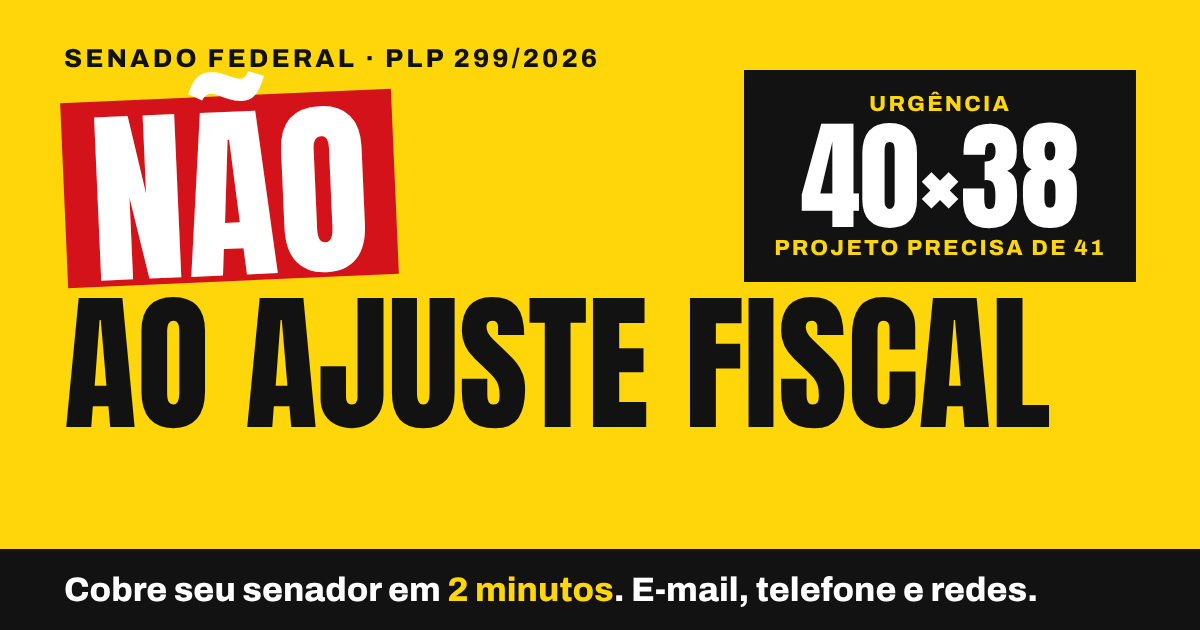
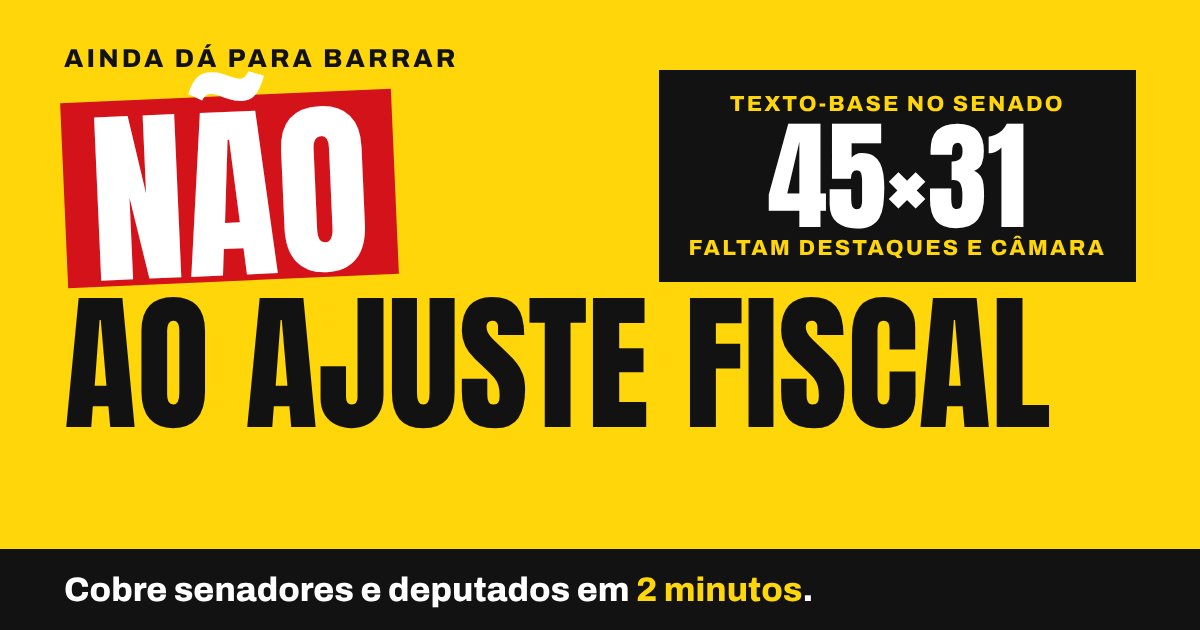
Atualiza o site após a aprovação do texto-base no Senado (45 a 31)
Placar, faixa, capa, pontos do projeto e mensagens-modelo passam a refletir
o substitutivo aprovado em 12/11, os destaques de terça (17) e a etapa da
Câmara. O build passa a classificar as votações (urgência, texto-base,
destaque) para o placar não ser trocado por votações de destaque.

Claude-Session: https://claude.ai/code/session_017r4UbBwt3XhGUBzSYtppMv

Changed region(s): [[0.5242, 0.0905, 0.925, 0.4524], [0.185, 0.9048, 0.8633, 0.9651], [0.0617, 0.0603, 0.4933, 0.1206]]

diff --git a/site/index.html b/site/index.html
@@ -3,13 +3,13 @@
 <head>
 <meta charset="utf-8">
 <meta name="viewport" content="width=device-width, initial-scale=1">
-<title>Não ao Ajuste Fiscal — cobre seu senador agora</title>
-<meta name="description" content="O Senado quer votar às pressas o PLP 299/2026, um ajuste fiscal de até R$ 60 bilhões. Em 2 minutos você cobra os senadores por e-mail, telefone e redes sociais.">
+<title>Não ao Ajuste Fiscal — cobre senadores e deputados agora</title>
+<meta name="description" content="O Senado aprovou por 45 a 31 o texto-base do PLP 299/2026, um ajuste fiscal de até R$ 60 bilhões. Ainda faltam os destaques e a Câmara. Em 2 minutos você cobra senadores e deputados.">
 <meta name="theme-color" content="#FFD60A">
 <meta property="og:type" content="website">
 <meta property="og:locale" content="pt_BR">
-<meta property="og:title" content="NÃO AO AJUSTE FISCAL — cobre seu senador agora">
-<meta property="og:description" content="A urgência passou por 40 a 38. O projeto precisa de 41 votos. Em 2 minutos você cobra quem vai votar.">
+<meta property="og:title" content="NÃO AO AJUSTE FISCAL — ainda dá para barrar">
+<meta property="og:description" content="O Senado aprovou o texto-base por 45 a 31. Faltam os destaques (terça, 17) e a Câmara. Em 2 minutos você cobra quem vai votar.">
 <meta property="og:url" content="__SITE_URL__/">
 <meta property="og:image" content="__SITE_URL__/og.png">
 <meta property="og:image:width" content="1200">
@@ -25,30 +25,30 @@
 <div class="faixa" role="status">
   <div class="wrap faixa-in">
     <span class="pisca" aria-hidden="true"></span>
-    <span id="faixa-texto"><b>PLP 299/2026</b> está no Plenário do Senado em regime de urgência. A votação pode acontecer a qualquer momento.</span>
+    <span id="faixa-texto"><b>Senado aprovou o texto-base por 45 a 31.</b> Faltam quatro destaques, na terça (17). Depois o projeto vai à Câmara.</span>
   </div>
 </div>
 
 <header class="hero">
   <div class="wrap hero-in">
     <div class="hero-txt">
-      <p class="olho">Senado Federal · PLP 299/2026</p>
+      <p class="olho">PLP 299/2026 · ainda dá para barrar</p>
       <h1><span class="nao">Não</span> ao ajuste fiscal</h1>
-      <p class="lide">Um pacote de até <b>R$ 60 bilhões</b> foi apresentado numa quarta e pautado para votação no dia seguinte. Ele aperta o limite de gastos, amplia os cortes no orçamento e mexe na base de cálculo do piso da saúde. <b>Cobre quem vai votar.</b></p>
+      <p class="lide">Em pouco mais de um dia, sem passar por comissão, o Senado aprovou o texto-base de um pacote de até <b>R$ 60 bilhões</b>. Ele aperta o limite de gastos, amplia o bloqueio de verbas e mexe na base de cálculo do piso da saúde. Faltam os destaques no Senado e toda a votação na Câmara. <b>Cobre quem ainda vai votar.</b></p>
       <div class="hero-cta">
-        <a class="btn btn-preto btn-g" href="#cobrar">Cobrar os senadores</a>
+        <a class="btn btn-preto btn-g" href="#cobrar">Cobrar senadores e deputados</a>
         <a class="btn btn-zap btn-g" data-share="whatsapp" href="#espalhe">Enviar no WhatsApp</a>
       </div>
     </div>
 
-    <aside class="placar" aria-label="Placar da votação da urgência">
-      <p class="placar-tit" id="placar-tit">Votação da urgência · 12/11/2026</p>
+    <aside class="placar" aria-label="Placar da votação no Senado">
+      <p class="placar-tit" id="placar-tit">Votação do texto-base · 12/11/2026</p>
       <div class="placar-num">
-        <div><strong id="placar-sim">40</strong><span>Sim</span></div>
+        <div><strong id="placar-sim">45</strong><span>Sim</span></div>
         <i aria-hidden="true">×</i>
-        <div><strong id="placar-nao">38</strong><span>Não</span></div>
+        <div><strong id="placar-nao">31</strong><span>Não</span></div>
       </div>
-      <p class="placar-obs">Para aprovar o projeto são necessários <b>41 votos</b> (maioria absoluta). A urgência teve 40. <b>Cada voto decide.</b></p>
+      <p class="placar-obs">Não acabou. <b>Terça (17):</b> o Senado vota quatro destaques, que podem tirar trechos do texto. <b>Depois:</b> a Câmara, onde são necessários 257 votos.</p>
     </aside>
   </div>
 </header>
@@ -58,17 +58,17 @@
 <section class="jogo" id="o-que-esta-em-jogo">
   <div class="wrap">
     <h2>O que o projeto faz</h2>
-    <p class="sub">Direto do texto protocolado no Senado em 11/11/2026 pelo senador Jaques Wagner (PT-BA), com relatoria de Eduardo Braga (MDB-AM).</p>
+    <p class="sub">Direto do substitutivo do relator Eduardo Braga (MDB-AM) ao projeto de Jaques Wagner (PT-BA), aprovado como texto-base em 12/11/2026.</p>
     <ul class="pontos">
       <li>
-        <span class="ref">Art. 1º</span>
+        <span class="ref">Art. 1º · LC 200, art. 5º</span>
         <h3>Limite de gastos ainda menor</h3>
-        <p>A partir de 2027, em ano de contingenciamento, o crescimento real das despesas cai de 2,5% para <b>2%</b>. É o arcabouço fiscal mais apertado do que já é.</p>
+        <p>A partir de 2027, em ano de contenção, o crescimento real das despesas cai de 2,5% para <b>2%</b>. É o arcabouço fiscal mais apertado do que já é.</p>
       </li>
       <li>
-        <span class="ref">Arts. 6º-C e 6º-D</span>
-        <h3>Corte mesmo com a meta cumprida</h3>
-        <p>O governo passa a poder bloquear verbas mesmo quando o resultado já está dentro da meta, e a <b>reduzir ou cancelar qualquer despesa</b> que dependa de disponibilidade orçamentária.</p>
+        <span class="ref">Art. 1º · LC 200, arts. 6º-C e 6º-D</span>
+        <h3>Bloqueio mesmo com a meta cumprida</h3>
+        <p>O governo passa a poder bloquear verbas mesmo quando o resultado já está dentro da meta, mirando o centro e não mais o piso. O bloqueio pode alcançar <b>qualquer despesa do Executivo</b> que dependa de disponibilidade orçamentária.</p>
       </li>
       <li>
         <span class="ref">Art. 3º</span>
@@ -76,19 +76,19 @@
         <p>Até 2030, a receita do imposto de exportação de petróleo sai da conta que define despesas mínimas obrigatórias. O percentual do piso fica igual, mas incide sobre uma <b>base menor</b>.</p>
       </li>
       <li>
-        <span class="ref">Art. 6º</span>
-        <h3>Previdência, BPC e abono na mira</h3>
-        <p>Exige um plano para que as despesas com previdência, assistência social, abono salarial e servidores passem a crescer <b>no ritmo do teto</b> do arcabouço.</p>
-      </li>
-      <li>
-        <span class="ref">Art. 11</span>
-        <h3>Até 40% dos fundos desvinculados</h3>
-        <p>Autoriza retirar até 40% do superávit de fundos com destinação específica. Saúde, educação, seguridade e segurança ficam fora dessa regra.</p>
+        <span class="ref">Art. 2º</span>
+        <h3>Repasse a estados e municípios adiado</h3>
+        <p>De 2027 a 2030, uma transferência obrigatória da União a estados e municípios fica limitada a <b>R$ 1 bilhão por ano</b>. A diferença só é paga depois, em parcelas até 2037.</p>
       </li>
       <li>
         <span class="ref">Rito</span>
-        <h3>Votado a toque de caixa</h3>
-        <p>Protocolado em 11/11 e levado direto ao Plenário, sem passar por comissão. Senadores pediram mais tempo: o texto é técnico e houve quem dissesse que não queria “votar às cegas”.</p>
+        <h3>Aprovado em pouco mais de um dia</h3>
+        <p>Protocolado em 11/11, aprovado em 12/11, direto no Plenário e sem comissão. A urgência passou por 40 a 38; senadores disseram que não queriam “votar às cegas”.</p>
+      </li>
+      <li>
+        <span class="ref">Fora do texto</span>
+        <h3>Dois pontos já caíram</h3>
+        <p>O texto aprovado <b>não tem mais</b> o plano para conter previdência, assistência social e abono, nem a desvinculação de 40% dos fundos, que estavam no projeto original. E cancelar verbas passou a exigir lei.</p>
       </li>
     </ul>
     <p class="nota">O projeto também dobra, de 10% para 20%, o corte de benefícios tributários de empresas. Essa parte não precisa vir amarrada a cortes em gasto social: pode ser votada em separado.</p>
@@ -98,11 +98,11 @@
 <section class="cobrar" id="cobrar">
   <div class="wrap">
     <h2>Cobre agora</h2>
-    <p class="sub">Escolha quem cobrar, ajuste a mensagem e envie pelo seu próprio e-mail. Leva dois minutos.</p>
+    <p class="sub">Senadores votam os destaques na terça (17). Deputados votam em seguida. Escolha quem cobrar, ajuste a mensagem e envie pelo seu próprio e-mail. Leva dois minutos.</p>
 
     <div class="abas" role="tablist" aria-label="Quem cobrar">
-      <button role="tab" id="aba-senado" aria-selected="true" aria-controls="painel-lista" data-casa="senado">Senado <small>vota primeiro</small></button>
-      <button role="tab" id="aba-camara" aria-selected="false" aria-controls="painel-lista" data-casa="camara">Câmara <small>próxima etapa</small></button>
+      <button role="tab" id="aba-senado" aria-selected="true" aria-controls="painel-lista" data-casa="senado">Senado <small>destaques na terça</small></button>
+      <button role="tab" id="aba-camara" aria-selected="false" aria-controls="painel-lista" data-casa="camara">Câmara <small>próxima votação</small></button>
       <button role="tab" id="aba-executivo" aria-selected="false" aria-controls="painel-executivo" data-casa="executivo">Executivo <small>autor do pacote</small></button>
     </div>
 
@@ -169,7 +169,7 @@
     </div>
 
     <div id="painel-executivo" role="tabpanel" hidden>
-      <p class="contexto">O projeto foi desenhado pela equipe econômica e apresentado pelo líder do governo. O Executivo pode retirar o pedido de urgência, mudar o texto ou desistir dos cortes. A cobrança formal ao governo federal é feita pelo <b>Fala.BR</b>, a ouvidoria oficial: toda manifestação gera protocolo e tem prazo de resposta.</p>
+      <p class="contexto">O projeto foi desenhado pela equipe econômica e apresentado pelo líder do governo. O Executivo pode retirar o apoio ao projeto antes da votação na Câmara, mudar o texto ou desistir dos cortes. A cobrança formal ao governo federal é feita pelo <b>Fala.BR</b>, a ouvidoria oficial: toda manifestação gera protocolo e tem prazo de resposta.</p>
       <ul class="exec" id="exec"></ul>
       <label class="campo"><span>Mensagem ao Executivo <em>— copie e cole no Fala.BR</em></span>
         <textarea id="x-corpo" rows="11"></textarea>
@@ -247,6 +247,8 @@
     <ul>
       <li><a href="https://www25.senado.leg.br/web/atividade/materias/-/materia/176328" target="_blank" rel="noopener">PLP 299/2026 — texto e tramitação no Senado</a></li>
       <li><a href="https://www12.senado.leg.br/noticias/materias/2026/11/11/ajuste-fiscal-pode-ser-votado-nesta-quinta-feira" target="_blank" rel="noopener">Agência Senado: “Ajuste fiscal pode ser votado nesta quinta-feira”</a></li>
+      <li><a href="https://www.infomoney.com.br/politica/senado-aprova-texto-base-do-ajuste-fiscal-do-governo-lula-por-45-votos-a-31/" target="_blank" rel="noopener">InfoMoney: Senado aprova texto-base por 45 votos a 31</a></li>
+      <li><a href="https://www.cnnbrasil.com.br/politica/senado-aprova-plp-do-ajuste-fiscal/" target="_blank" rel="noopener">CNN Brasil: texto-base aprovado com limite a cortes do Executivo</a></li>
       <li><a href="https://www.metropoles.com/brasil/senado-aprova-urgencia-e-deve-votar-ajuste-fiscal-de-lula-ainda-nesta-5a" target="_blank" rel="noopener">Metrópoles: Senado aprova urgência por 40 a 38</a></li>
       <li><a href="https://outraspalavras.net/crise-brasileira/o-pacote-que-pode-comprometer-lula-4/" target="_blank" rel="noopener">Outras Palavras: “O pacote que pode comprometer Lula 4”</a></li>
       <li><a href="https://www.diariodepernambuco.com.br/economia/2026/11/11728882-governo-pode-mudar-calculo-dos-pisos-da-saude-e-educacao-em-pacote-fiscal-de-ate-rs-80-bi.html" target="_blank" rel="noopener">Diario de Pernambuco: mudança no cálculo dos pisos da saúde e da educação</a></li>

diff --git a/site/app.js b/site/app.js
@@ -11,11 +11,11 @@
     senado: {
       um: 'senador', uma: 'senadora', plural: 'senadores', coletivo: 'Senhoras Senadoras e Senhores Senadores',
       foto: (p) => `https://www.senado.leg.br/senadores/img/fotos-oficiais/senador${p.id}.jpg`,
-      contexto: 'O projeto está no Plenário do Senado em regime de urgência. É aqui que a pressão decide: são necessários 41 votos para aprovar. A etiqueta ao lado de cada nome mostra o voto na urgência.',
-      assunto: 'Vote NÃO ao PLP 299/2026 — o ajuste fiscal não pode passar',
+      contexto: 'O texto-base passou por 45 a 31, mas a votação não acabou: na terça-feira (17) o Plenário vota quatro destaques, que ainda podem tirar trechos do projeto. A etiqueta ao lado de cada nome mostra o voto no texto-base.',
+      assunto: 'PLP 299/2026: na terça, vote para derrubar os cortes do ajuste fiscal',
       corpo: [
-        'Escrevo para pedir que V. Exa. vote NÃO ao PLP 299/2026, o projeto de ajuste fiscal em análise no Plenário do Senado.',
-        'O texto foi protocolado em 11/11 e levado a voto em regime de urgência, sem passar por nenhuma comissão. Ele reduz de 2,5% para 2% o limite de crescimento real das despesas, autoriza contingenciar mesmo quando a meta fiscal já está sendo cumprida, retira receitas do petróleo da base que define despesas mínimas como o piso da saúde e exige um plano para conter previdência, assistência social e abono salarial.',
+        'O Senado aprovou em 12/11, por 45 a 31, o texto-base do PLP 299/2026, o projeto de ajuste fiscal. Na terça-feira (17) o Plenário vota os destaques, e escrevo para pedir que V. Exa. vote para retirar os cortes do texto.',
+        'O projeto foi protocolado, levado a voto em urgência e aprovado em pouco mais de um dia, sem passar por nenhuma comissão. Ele reduz de 2,5% para 2% o limite de crescimento real das despesas, autoriza bloquear verbas mesmo quando a meta fiscal já está sendo cumprida, retira receitas do petróleo da base que define despesas mínimas como o piso da saúde e segura até 2030 repasses devidos a estados e municípios.',
         'Não foi para cortar gasto social que o povo foi às urnas. Se é preciso equilibrar as contas, que se cobre de quem tem mais: grandes fortunas, benefícios tributários e emendas parlamentares.',
         'Vou acompanhar e divulgar o seu voto.',
       ].join('\n\n'),
@@ -23,11 +23,11 @@
     camara: {
       um: 'deputado', uma: 'deputada', plural: 'deputados', coletivo: 'Senhoras Deputadas e Senhores Deputados',
       foto: (p) => `https://www.camara.leg.br/internet/deputado/bandep/${p.id}.jpg`,
-      contexto: 'Se passar no Senado, o projeto segue para a Câmara dos Deputados, onde precisa de 257 votos. Avise desde já os deputados do seu estado de que você está acompanhando.',
-      assunto: 'Não ao ajuste fiscal — vote NÃO ao PLP 299/2026 quando chegar à Câmara',
+      contexto: 'É aqui que o ajuste pode ser barrado. Depois dos destaques no Senado, o projeto segue para a Câmara dos Deputados, onde precisa de 257 votos. Cobre desde já os deputados do seu estado.',
+      assunto: 'Vote NÃO ao PLP 299/2026 — o ajuste fiscal não pode passar na Câmara',
       corpo: [
-        'Escrevo para pedir que V. Exa. se posicione desde já contra o PLP 299/2026, o projeto de ajuste fiscal que tramita em urgência no Senado e que, se aprovado, seguirá para a Câmara dos Deputados.',
-        'O texto reduz de 2,5% para 2% o limite de crescimento real das despesas, autoriza contingenciar mesmo quando a meta fiscal já está sendo cumprida, retira receitas do petróleo da base que define despesas mínimas como o piso da saúde e exige um plano para conter previdência, assistência social e abono salarial.',
+        'O Senado aprovou em 12/11, por 45 a 31, o texto-base do PLP 299/2026, o projeto de ajuste fiscal, que agora segue para a Câmara dos Deputados. Escrevo para pedir que V. Exa. vote NÃO e se posicione publicamente desde já.',
+        'O projeto passou no Senado em pouco mais de um dia, sem comissão. Ele reduz de 2,5% para 2% o limite de crescimento real das despesas, autoriza bloquear verbas mesmo quando a meta fiscal já está sendo cumprida, retira receitas do petróleo da base que define despesas mínimas como o piso da saúde e segura até 2030 repasses devidos a estados e municípios.',
         'Não foi para cortar gasto social que o povo foi às urnas. Se é preciso equilibrar as contas, que se cobre de quem tem mais: grandes fortunas, benefícios tributários e emendas parlamentares.',
         'Vou acompanhar e divulgar o seu voto.',
       ].join('\n\n'),
@@ -36,19 +36,19 @@
 
   const EXECUTIVO = [
     { cargo: 'Presidência da República', nome: 'Lula', arroba: '@LulaOficial',
-      texto: 'Pode retirar o apoio do governo à urgência e mandar a equipe econômica rever o pacote.' },
+      texto: 'Pode retirar o apoio do governo ao projeto antes da votação na Câmara e mandar a equipe econômica rever o pacote.' },
     { cargo: 'Ministério da Fazenda', nome: 'Dario Durigan', arroba: '@MinFazenda',
-      texto: 'A pasta defende o ajuste para cumprir a meta fiscal e negociou o texto apresentado no Senado.' },
+      texto: 'A pasta defende o ajuste para cumprir a meta fiscal e negociou o texto aprovado no Senado.' },
     { cargo: 'Ministério do Planejamento e Orçamento', nome: 'Bruno Moretti', arroba: '',
       texto: 'Apresentou o pacote ao Congresso e estimou o impacto em R$ 50 a 60 bilhões em 2027.' },
   ];
   const CORPO_EXEC = [
-    'Peço que o governo federal retire o apoio ao PLP 299/2026 e desista do ajuste fiscal em votação no Senado.',
-    'O projeto reduz de 2,5% para 2% o limite de crescimento real das despesas, amplia o contingenciamento mesmo com a meta fiscal cumprida, retira receitas do petróleo da base que define despesas mínimas como o piso da saúde e exige um plano para conter previdência, assistência social e abono salarial.',
+    'Peço que o governo federal retire o apoio ao PLP 299/2026 e desista do ajuste fiscal, aprovado em texto-base no Senado e a caminho da Câmara dos Deputados.',
+    'O projeto reduz de 2,5% para 2% o limite de crescimento real das despesas, amplia o bloqueio de verbas mesmo com a meta fiscal cumprida, retira receitas do petróleo da base que define despesas mínimas como o piso da saúde e segura até 2030 repasses devidos a estados e municípios.',
     'Não foi esse o programa que venceu a eleição. Se é preciso equilibrar as contas, que o governo cobre de quem tem mais: grandes fortunas, benefícios tributários e emendas parlamentares, sem cortar o que chega à população.',
   ].join('\n\n');
 
-  const TEXTO_REDES = 'O Senado quer votar às pressas um ajuste fiscal de até R$ 60 bilhões (PLP 299/2026). A urgência passou por 40 a 38 e o projeto precisa de 41 votos. Ele aperta o limite de gastos, amplia cortes no orçamento e mexe na base do piso da saúde.\n\nEm 2 minutos você cobra os senadores por e-mail:';
+  const TEXTO_REDES = 'O Senado aprovou por 45 a 31, em pouco mais de um dia e sem comissão, o texto-base de um ajuste fiscal de até R$ 60 bilhões (PLP 299/2026). Ele aperta o limite de gastos, amplia o bloqueio de verbas e mexe na base do piso da saúde.\n\nAinda dá para barrar: faltam os destaques no Senado (terça, 17) e toda a votação na Câmara. Em 2 minutos você cobra senadores e deputados por e-mail:';
 
   const estado = {
     casa: 'senado',
@@ -85,8 +85,8 @@
   /* ---------- dados ---------- */
   const voto = (p) => (estado.casa === 'senado' && estado.votacao ? estado.votacao.votos[p.id] || 'A' : '');
   const ROTULO_VOTO = () => {
-    const u = estado.votacao?.urgencia;
-    return { S: u ? 'Sim à urgência' : 'Votou sim', N: u ? 'Não à urgência' : 'Votou não', A: 'Não votou', P: 'Presidiu a sessão' };
+    const u = estado.votacao?.tipo === 'urgencia';
+    return { S: u ? 'Sim à urgência' : 'Sim ao ajuste', N: u ? 'Não à urgência' : 'Não ao ajuste', A: 'Não votou', P: 'Presidiu a sessão' };
   };
 
   function filtrados() {
@@ -109,7 +109,7 @@
 
     const at = $('#atalhos');
     if (estado.casa === 'senado' && estado.votacao) {
-      const u = estado.votacao.urgencia ? ' à urgência' : '';
+      const u = estado.votacao.tipo === 'urgencia' ? ' à urgência' : '';
       const n = (s) => lista.filter((p) => voto(p) === s).length;
       const chips = [['', `Todos (${lista.length})`], ['S', `Votaram SIM${u} (${n('S')})`], ['N', `Votaram NÃO${u} (${n('N')})`], ['A', `Não votaram (${n('A') + n('P')})`]];
       at.innerHTML = chips.map(([v, t]) => `<button type="button" class="chip" data-voto="${v}" aria-pressed="${f.voto === v}">${t}</button>`).join('');
@@ -219,7 +219,7 @@
   }
   function montarRedes() {
     $('#s-texto').value = `${TEXTO_REDES} ${SITE}\n\n#NãoAoAjusteFiscal #PLP299`;
-    const curto = 'O Senado quer votar às pressas um ajuste fiscal de até R$ 60 bi (PLP 299/2026). A urgência passou por 40 a 38; o projeto precisa de 41 votos. Cobre os senadores em 2 minutos:';
+    const curto = 'O Senado aprovou por 45 a 31 o texto-base do ajuste fiscal de até R$ 60 bi (PLP 299/2026). Ainda faltam os destaques (terça, 17) e a Câmara. Cobre senadores e deputados em 2 minutos:';
     $$('[data-share]').forEach((a) => {
       const rede = a.dataset.share;
       a.href = linkRede(rede, rede === 'x' || rede === 'bluesky' ? `${curto} #NãoAoAjusteFiscal` : TEXTO_REDES);
@@ -230,7 +230,7 @@
     $('#x-corpo').value = CORPO_EXEC;
     $('#exec').innerHTML = EXECUTIVO.map((e) => {
       const alvo = e.arroba || e.nome;
-      const post = `${alvo}, retire o ajuste fiscal do Senado. O PLP 299/2026 aperta o limite de gastos e mexe na base do piso da saúde. Não foi isso que venceu a eleição. #NãoAoAjusteFiscal`;
+      const post = `${alvo}, retire o apoio ao ajuste fiscal. O PLP 299/2026 aperta o limite de gastos e mexe na base do piso da saúde. Não foi isso que venceu a eleição. #NãoAoAjusteFiscal`;
       return `<li><span class="cargo">${e.cargo}</span><span class="nome">${e.nome}</span><p>${e.texto}</p>
         <a class="btn btn-contorno" href="${esc(linkRede('x', post))}" target="_blank" rel="noopener">Cobrar no X${e.arroba ? ` ${e.arroba}` : ''}</a></li>`;
     }).join('');
@@ -296,11 +296,12 @@
     try {
       const [sen, vot, dep] = await Promise.all([carregar('senadores'), carregar('votacoes'), carregar('deputados')]);
       estado.dados.senado = sen.dados; estado.dados.camara = dep.dados;
-      estado.votacao = vot.dados[vot.dados.length - 1] || null;
+      const ultima = (t) => vot.dados.filter((x) => x.tipo === t).pop();
+      estado.votacao = ultima('texto-base') || ultima('urgencia') || vot.dados[vot.dados.length - 1] || null;
       const v = estado.votacao;
       if (v) {
         const [a, m, d] = v.data.split('-');
-        $('#placar-tit').textContent = `${v.urgencia ? 'Votação da urgência' : 'Votação do projeto'} · ${d}/${m}/${a}`;
+        $('#placar-tit').textContent = `${v.tipo === 'urgencia' ? 'Votação da urgência' : 'Votação do texto-base'} · ${d}/${m}/${a}`;
         $('#placar-sim').textContent = v.sim; $('#placar-nao').textContent = v.nao;
       }
       const quando = new Date(sen.atualizado);

diff --git a/site/styles.css b/site/styles.css
@@ -50,7 +50,7 @@ section { padding-block: clamp(44px, 8vw, 80px); }
 .hero-in { display: grid; gap: 28px; padding-block: clamp(28px, 6vw, 64px); align-items: end; }
 @media (min-width: 880px) { .hero-in { grid-template-columns: 1.5fr 1fr; gap: 48px; } }
 .olho { font-weight: 800; font-size: .82rem; letter-spacing: .12em; text-transform: uppercase; }
-h1 { margin-top: 10px; font: 400 clamp(3.6rem, 17vw, 9rem)/.88 var(--display); text-transform: uppercase; letter-spacing: -.005em; }
+h1 { margin-top: .32em; font: 400 clamp(3.6rem, 17vw, 9rem)/.88 var(--display); text-transform: uppercase; letter-spacing: -.005em; }
 h1 .nao { display: block; width: fit-content; padding: .04em .14em 0; margin-bottom: .08em; background: var(--vermelho); color: var(--branco); transform: rotate(-2.5deg); transform-origin: left bottom; }
 .lide { margin-top: 22px; max-width: 56ch; font-size: clamp(1.05rem, 2.6vw, 1.25rem); line-height: 1.45; }
 .hero-cta { display: flex; flex-wrap: wrap; gap: 12px; margin-top: 24px; }
